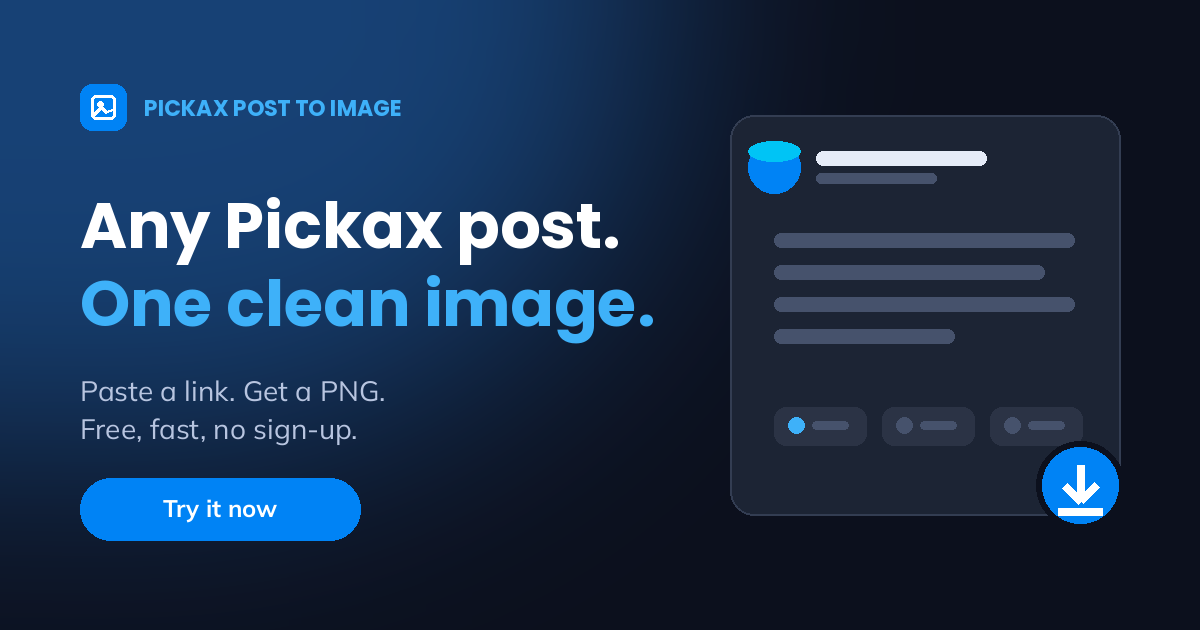
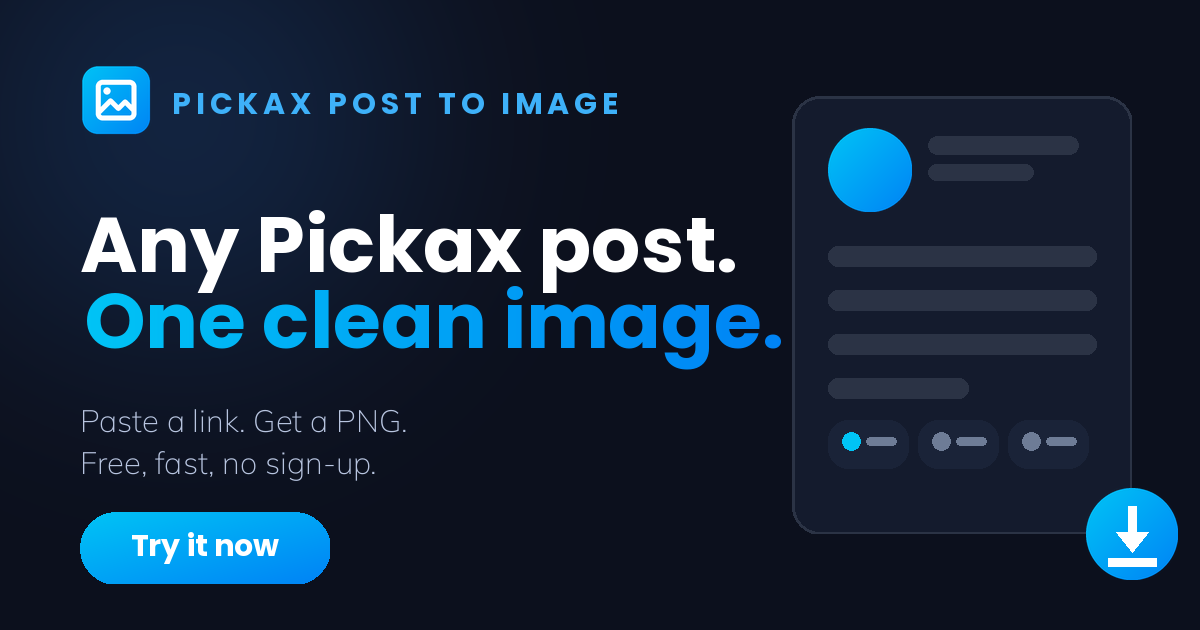
New og-image: exact site palette (v3 cache-bust)

diff --git a/index.html b/index.html
@@ -26,7 +26,7 @@
     <meta property="og:title" content="Pickax Post to Image — Turn any Pickax post into a shareable image" />
     <meta property="og:description" content="Paste a Pickax post link and get a clean, downloadable PNG. Free, fast, no sign-up." />
     <meta property="og:url" content="https://www.pickax2image.top/" />
-    <meta property="og:image" content="https://www.pickax2image.top/og-image.png?v=2" />
+    <meta property="og:image" content="https://www.pickax2image.top/og-image.png?v=3" />
     <meta property="og:image:type" content="image/png" />
     <meta property="og:image:width" content="1200" />
     <meta property="og:image:height" content="630" />
@@ -37,7 +37,7 @@
     <meta name="twitter:card" content="summary_large_image" />
     <meta name="twitter:title" content="Pickax Post to Image — Turn any Pickax post into a shareable image" />
     <meta name="twitter:description" content="Paste a Pickax post link and get a clean, downloadable PNG. Free, fast, no sign-up." />
-    <meta name="twitter:image" content="https://www.pickax2image.top/og-image.png?v=2" />
+    <meta name="twitter:image" content="https://www.pickax2image.top/og-image.png?v=3" />
     <meta name="twitter:image:alt" content="Pickax Post to Image — paste a Pickax post link and get a clean shareable PNG image. Free, fast, no sign-up." />
 
     <link rel="preconnect" href="https://fonts.googleapis.com" />
